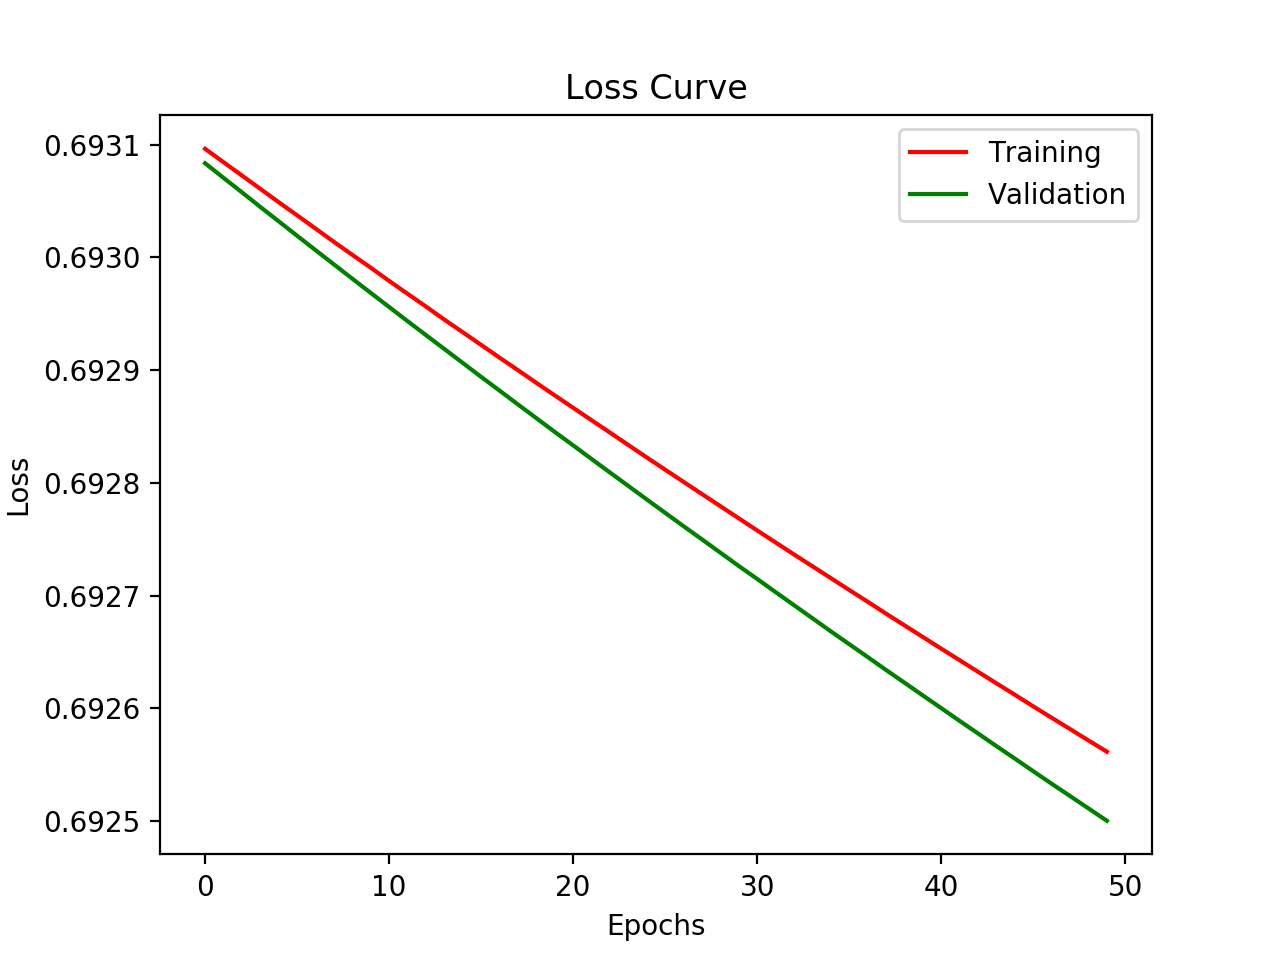
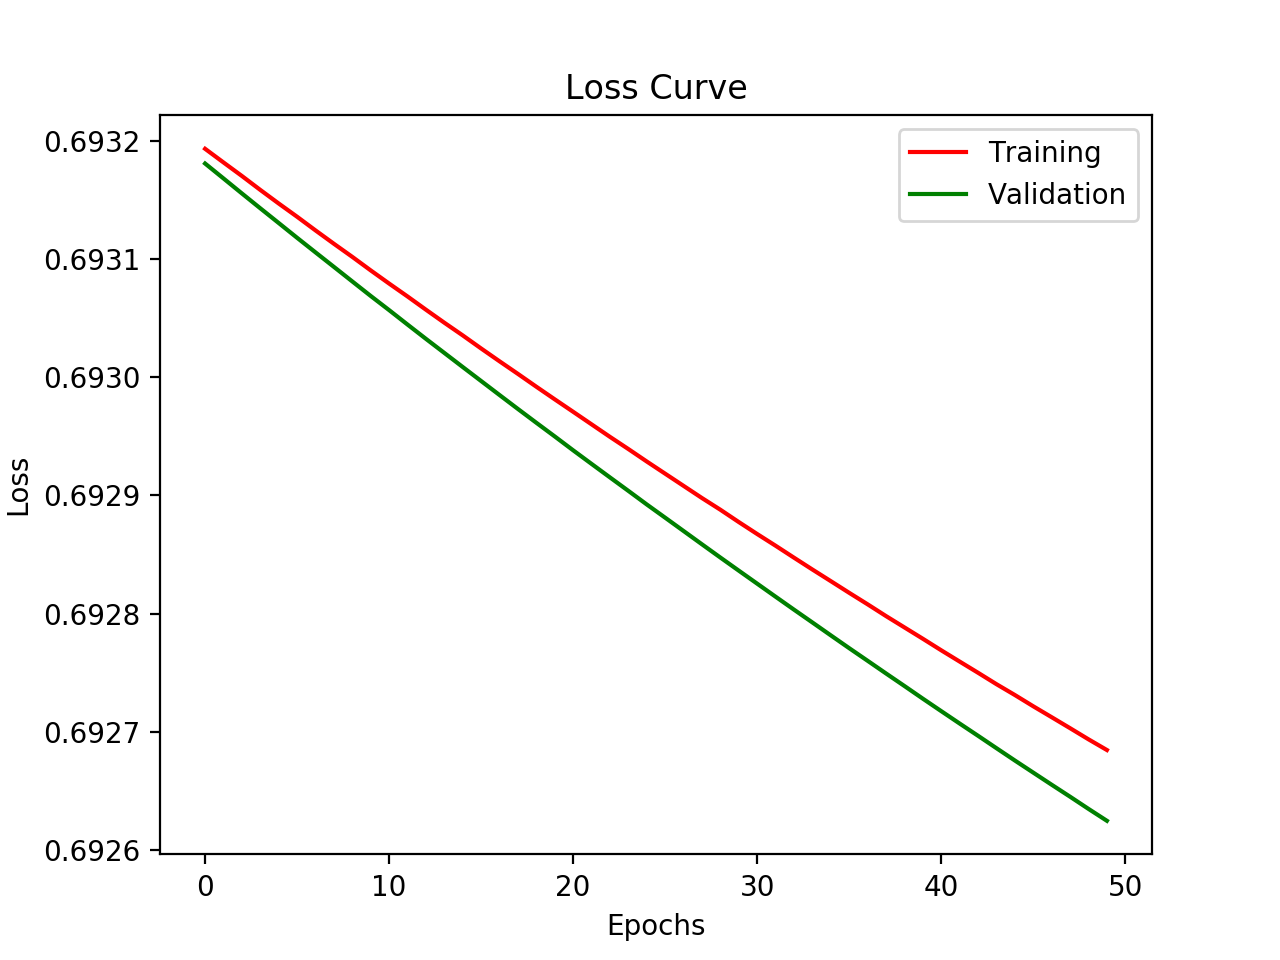
v0.7 : PyTorch Refactoring

diff --git a/test.py b/test.py
@@ -22,7 +22,7 @@ y_val = torch.from_numpy(testing_data[0].values.reshape(1, -1))  # shape : (1, m
 x_val = torch.from_numpy(testing_data.iloc[:, 1:].values.T) / 255.0  # shape = (n, m)
 
 net = Sequential()
-net.add(FC(units=500, activation="relu"))
+net.add(FC(units=500, activation="mish"))
 net.add(FC(units=10, activation="relu"))
 net.add(FC(units=1, activation="sigmoid"))
 net.compile(optimizer="sgd", loss="binary_crossentropy", lr=1e-02)

diff --git a/dnet/activations.py b/dnet/activations.py
@@ -16,3 +16,11 @@ def tanh(z: Tensor) -> Tensor:
 
 def relu(z: Tensor) -> Tensor:
     return torch.relu(z)
+
+
+def softplus(z: Tensor) -> Tensor:
+    return torch.nn.Softplus()(z)
+
+
+def mish(z: Tensor) -> Tensor:
+    return z * tanh(softplus(z))

diff --git a/README.md b/README.md
@@ -67,7 +67,7 @@ y_val = torch.from_numpy(testing_data[0].values.reshape(1, -1))  # shape : (1, m
 x_val = torch.from_numpy(testing_data.iloc[:, 1:].values.T) / 255.0  # shape = (n, m)
 
 net = Sequential()
-net.add(FC(units=500, activation="relu"))
+net.add(FC(units=500, activation="mish"))
 net.add(FC(units=10, activation="relu"))
 net.add(FC(units=1, activation="sigmoid"))
 net.compile(optimizer="sgd", loss="binary_crossentropy", lr=1e-02)
